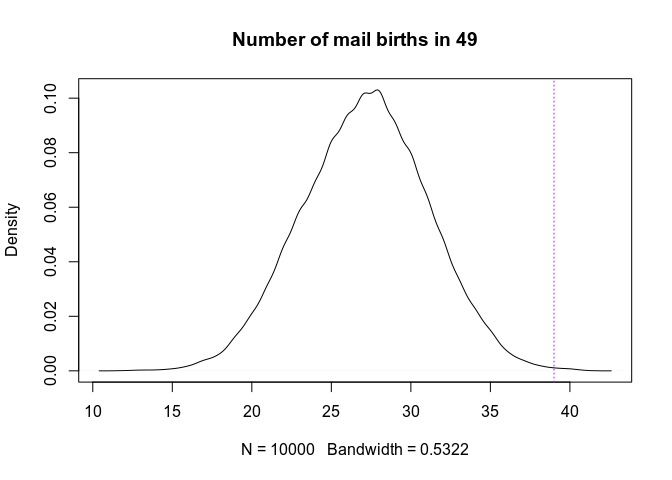
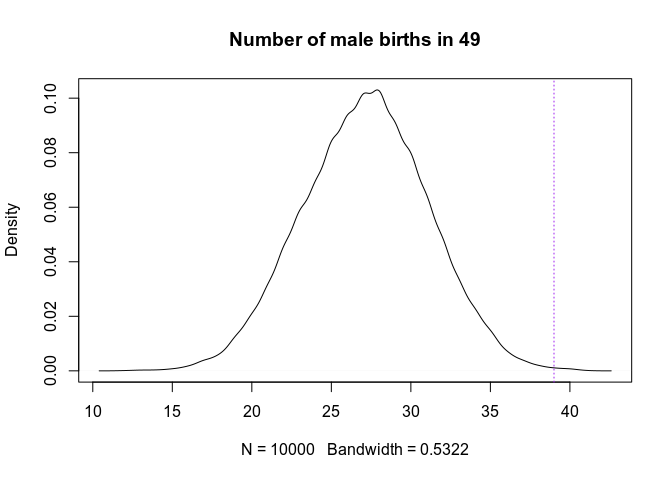
Fixed typo

Changed region(s): [[0.3438, 0.0625, 0.7188, 0.0938]]

diff --git a/chapter3/practice3.md b/chapter3/practice3.md
@@ -387,7 +387,7 @@ birth_after_girl = birth2[first_girl]
 ``` r
 # simulate
 males_after_girl = rbinom(num_samples, size=trials_after_girl, prob=samples4)
-males_after_girl %>% density %>% plot(main=paste('Number of mail births in', trials_after_girl))
+males_after_girl %>% density %>% plot(main=paste('Number of male births in', trials_after_girl))
 abline(v=num_boy_after_girl, lty=3, col='purple')
 ```
 
